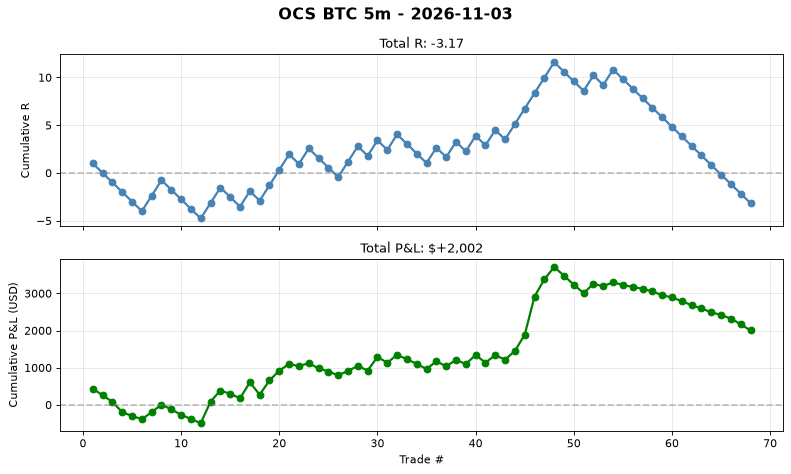
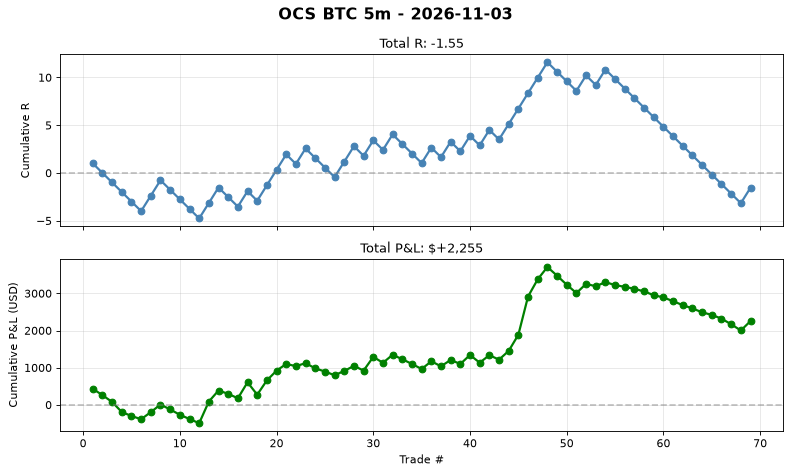
auto(ocs-btc): signal log 2026-11-03T07:55 trades=69

diff --git a/automation/reports/ocs_btc_5m/daily/2026-11-03.md b/automation/reports/ocs_btc_5m/daily/2026-11-03.md
@@ -1,5 +1,37 @@
 # OCS BTC 5m - 2026-11-03
 
-**No trades today.**
+## Summary
+- **Trades**: 1 (1W / 0L)
+- **Win Rate**: 100.0%
+- **Total R**: +1.62R
+- **Total P&L**: $+253
+- **Avg R**: +1.62R
+- **Profit Factor**: 0.96
 
-Cumulative stats: 68 trades | WR 36.8% | avg R -0.047
+## Exit Breakdown
+- T1 (+1.0R): 1
+- T2 (+1.618R): 25
+- T3 (+2.618R): 0
+- T4 (+3.618R): 0
+- T5 (+5.0R): 0
+- SL (-1.0R): 43
+
+## Best Trade
+- **SHORT** at 76,695 -> T2 76,442
+- R = +1.62, P&L = $+253
+- Held for 2 bars
+
+## Worst Trade
+- **SHORT** at 76,695 -> T2 76,442
+- R = +1.62, P&L = $+253
+- Held for 2 bars
+
+## Cumulative Stats (Lifetime)
+- Total trades: 69
+- WR: 37.7%
+- Avg R: -0.022
+- Total R: -1.55R
+- Profit Factor: 0.96
+
+## Chart
+See `daily/2026-11-03.png` for cumulative P&L curve.
